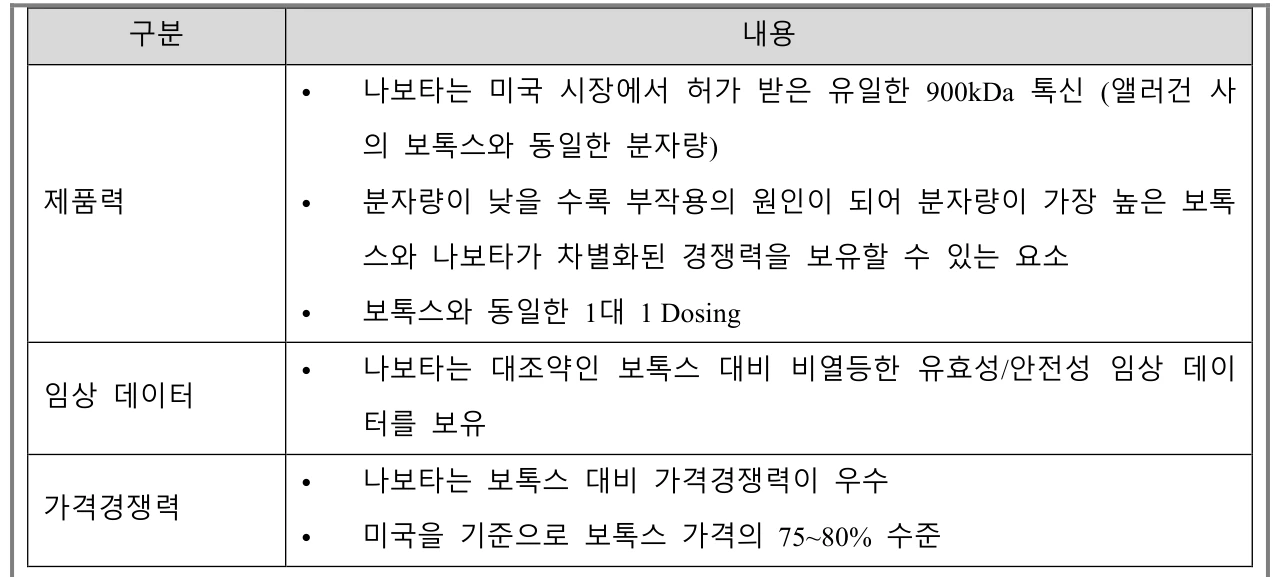
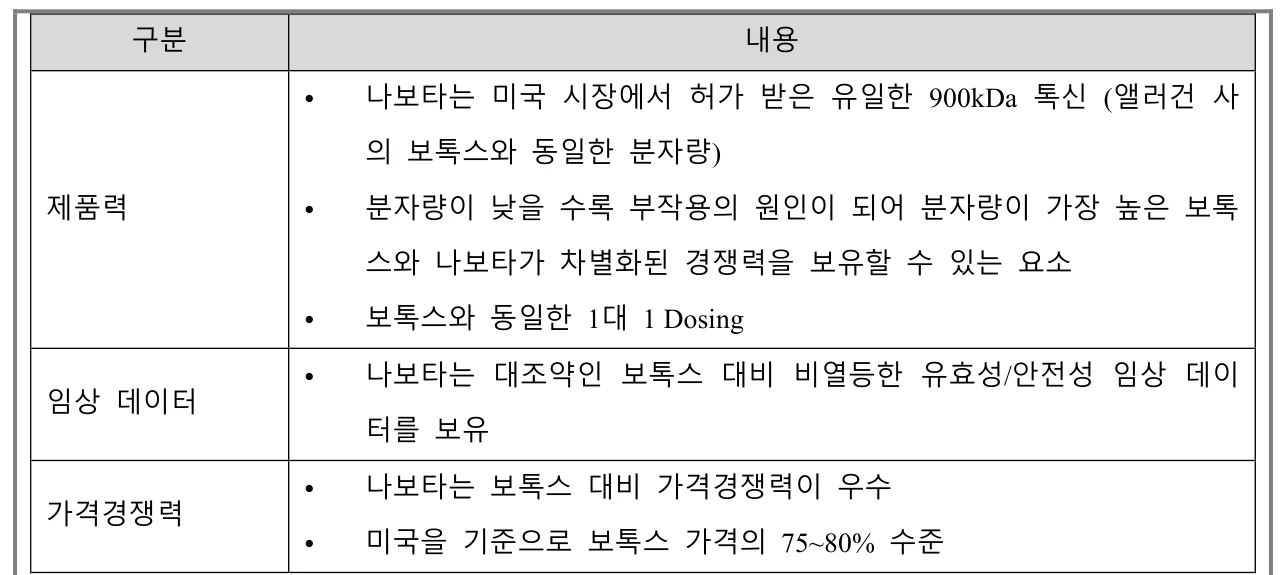
230104 표 1·9 잘림 수정 + 4.5.1 소제목 인식 (최형기)
- 표 크롭 하단 여백(+4px)이 '출처: …' 줄을 살짝 물던 문제 수정(+1px로 축소),
  상단 여백은 -7px로 넓혀 표 테두리가 잘리지 않게 함 → 표 1·9 등 7개 재렌더
- '4.5.1 특허: 하이-퓨어 테크놀로지(등록 특허 KR1339349) 및 생산기술'이 45자로
  소제목 길이 제한(40자)에 걸려 본문으로 처리되던 문제 수정
  (절 번호로 시작하면 길이 제한 없이 소제목으로 인식) → h3 35→37
- 표 위 '(단위: …)' 라벨을 본문에서 제외(표 이미지에 포함되므로 중복 방지)

diff --git a/fulltext/230104/index.html b/fulltext/230104/index.html
@@ -266,7 +266,7 @@
 <p>또한 각 Squad의 ‘기능별로’ 소통하고 학습할 수 있게 하기 위해 업담(업무잡담, 그림 18의 초록색으로 표기)이라는 제도를 만들어서 서로 소통하고 학습할 수 있도록 조직하였다. 이러한 신약센터의 개편은 대웅제약 스스로도 대웅제약의 신약 개발의 역사는 익스트림팀 전과 후로 나뉜다고 홍보할 정도로 현재는 유의미한 성과들을 내고 있다. 또한 익스트림팀은 연구생산성에도 큰 영향을 미쳤는데 국내 상위제약사의 신약 조직과 비교할 때 신약개발 생산성(연구원수 대비 개발단계 신약과제 수)가 가장 높은 것으로 파악된다.</p>
 <h3>4.5 전유성 체계</h3>
 <p>전유성(appropriability) 체계는 지속적인 경쟁우위에 영향을 미칠 수 있는 핵심 요인으로, 연구개발 활동 결과물의 잠재적 이익을 최대한 확보하기 위하여 경쟁기업의 모방이나 추격으로부터 보호할 수 있는 전략적 수단이다. 전유성 체계는 특허, 비밀유지, 리드타임, 설계의 복잡화 등의 전략으로 구성 되어있다 (서한결, 정양헌, 2016). 기업들은 전유성 체계를 강화하여 잠재적 이익의 불확실성을 낮추고자 끊임없이 노력한다. 대웅제약이 나보타를 개발하면서 확보한 전유성 체계를 1) 특허, 2) 리드타임으로 구분하였다.</p>
-<p>4.5.1 특허: 하이-퓨어 테크놀로지(등록 특허 KR1339349) 및 생산기술</p>
+<h3>4.5.1 특허: 하이-퓨어 테크놀로지(등록 특허 KR1339349) 및 생산기술</h3>
 <p>하이-퓨어(Hi-pure) 테크놀로지는 보툴리눔 톡신을 고순도로 정제할 수 있는 정제 공법으로 나보타 제조의 핵심 기술이다. 2013년 국내 등록을 시작으로 보툴리눔 톡신의 주요 시장인 미국, 유럽, 중국, 브라질 등에서 특허를 등록하였다.</p>
 <p>보툴리눔 톡신의 순도는 안전성의 중요한 요소로 불순물이 많고, 단백질이 적은 경우에는 시술 후 정확한 확산이 어려워 불필요한 부작용을 유발할 수가 있다. 좋은 정제 기술은 불순 단백질을 정밀하게 걸러내고 유효성분의 함량을 높일 수 있다. 보툴리눔 톡신은 최소한 90%이상 순도가 나와야 하며, 95%는 보통, 가장 좋게는 98%이상의 순도가 나와야 한다. 대웅제약은 하이-퓨어 테크놀로지를 이용하여 98%이상의 고순도를 구현하였으며, 이를 특허화 하여 보툴리눔 톡신의 핵심 제조 기술인 정제 기술을 전유성으로 확보할 수 있었다.</p>
 <p>대웅제약은 정제기술 뿐 아니라 정제 이후 건조 단계에서의 기존 보툴리눔 톡신 제제 제조사와 차별화를 꾀했다. 현재 대웅제약이 사용하고 있는 건조방식은 감압건조 방식으로 앨러간과 대웅제약만 감압건조 방식을 채택하고 있다.</p>
